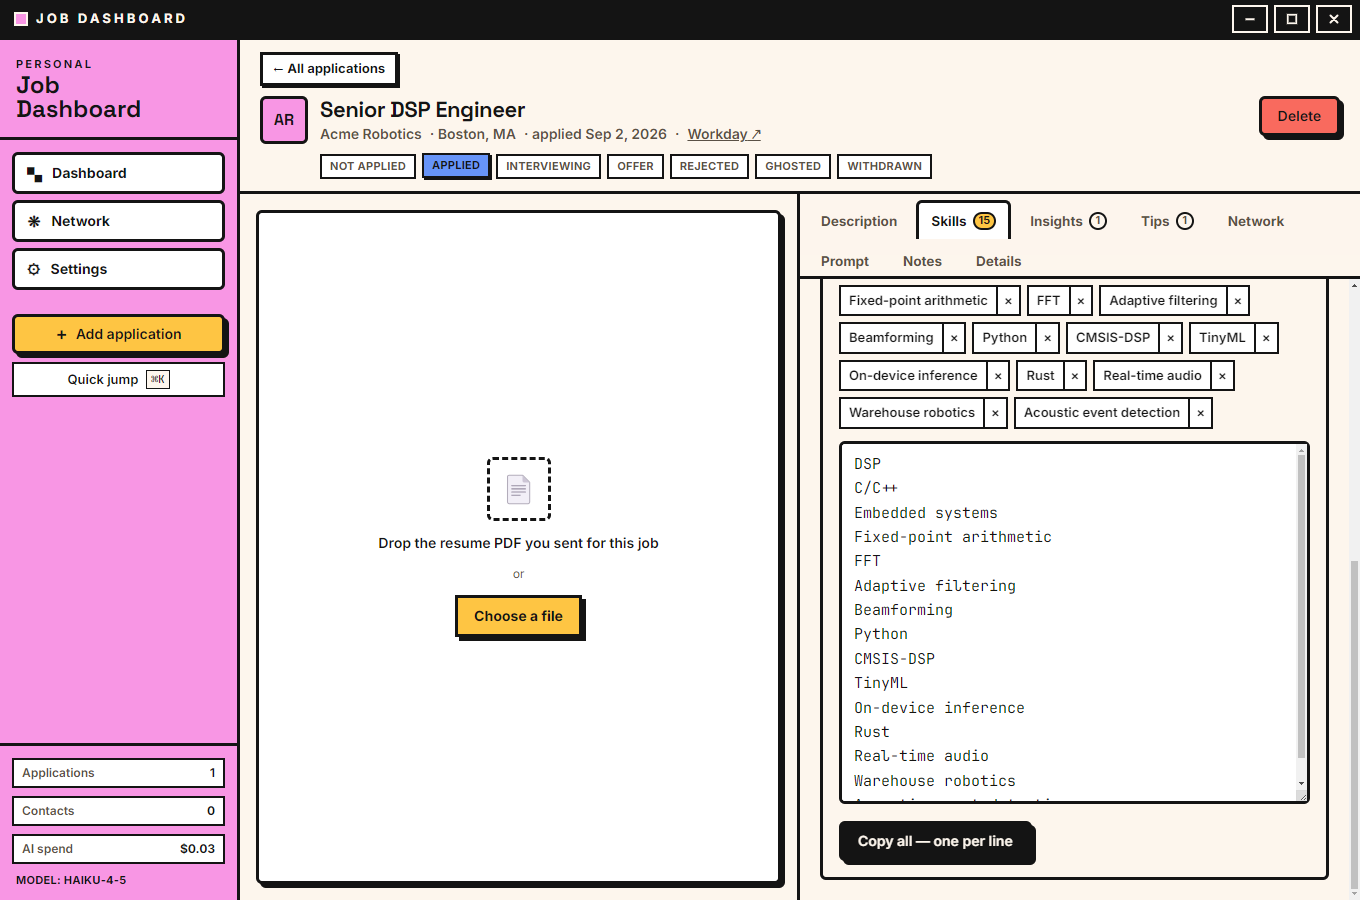
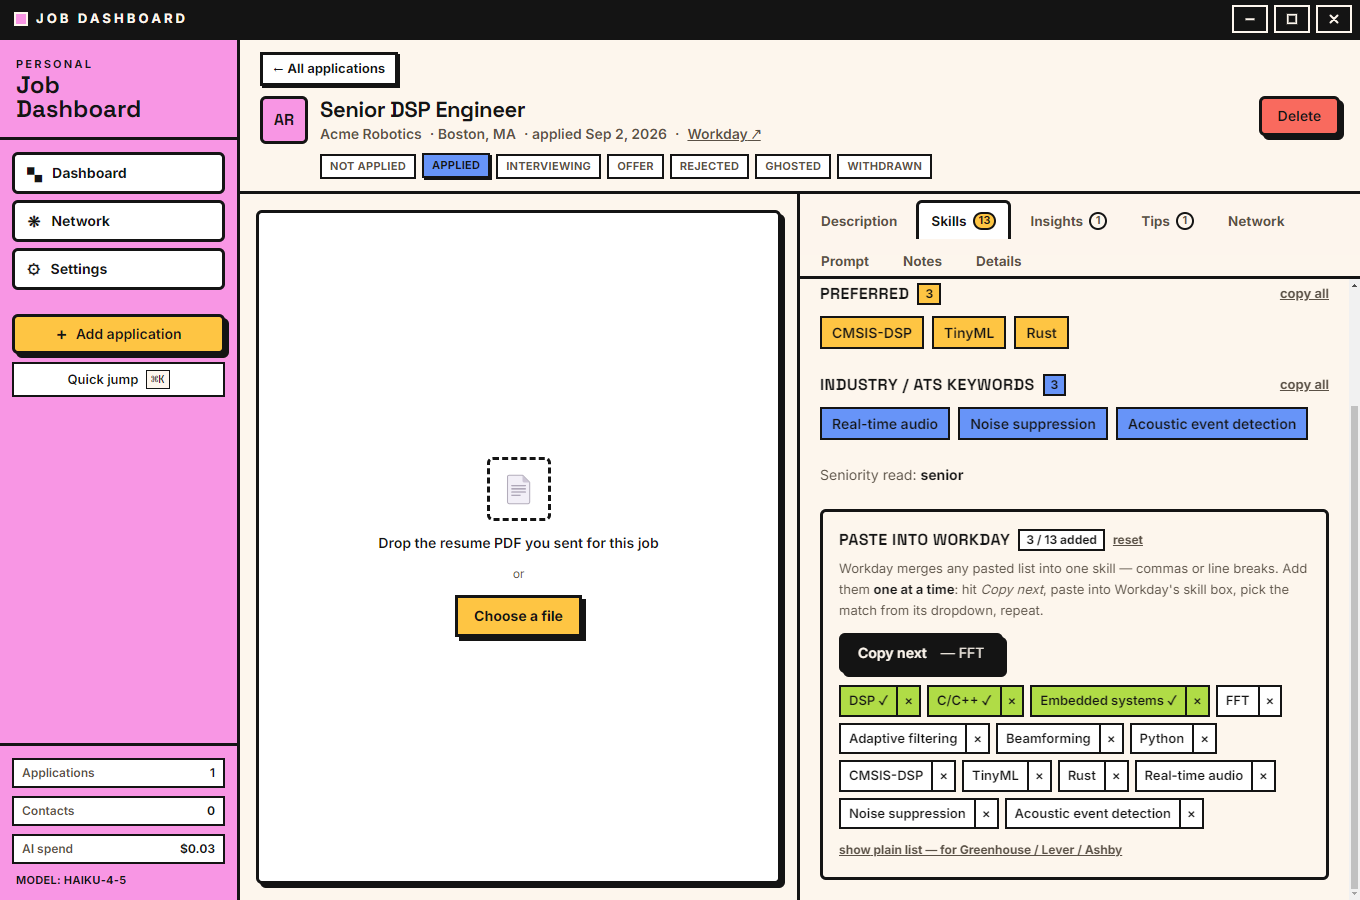
WorkdaySkillsBox: lead with one-at-a-time copy
Workday's skill search merges a pasted list into a single skill whether it's
comma- OR newline-delimited (confirmed from a real paste), so the newline block
is useless there. Rework the box around the only flow that works:
- 'Copy next' copies the next skill and advances; N/total progress counter
- per-chip click still copies that one; done chips go lime with a check
- the newline list is now a collapsed fallback labelled for Greenhouse/Lever/Ashby
Update README + screenshot to match.

Changed region(s): [[0.5868, 0.3111, 1.0, 0.9644], [0.8956, 0.2178, 0.9265, 0.2489], [0.7721, 0.2178, 0.8029, 0.2489]]

diff --git a/src/renderer/src/components/WorkdaySkillsBox.tsx b/src/renderer/src/components/WorkdaySkillsBox.tsx
@@ -22,30 +22,26 @@ function masterList(skills: ApplicationSkills): string[] {
 }
 
 /**
- * "Paste into Workday" — Workday's skill field is a taxonomy typeahead whose
- * search box takes a pasted comma list as ONE skill. This turns the extracted
- * skills into a newline-delimited block (which the tenants that choke on commas
- * do split), plus a click-to-copy-one mode with progress tracking for tenants
- * where every skill must be picked from the dropdown by hand.
+ * "Paste into Workday" — Workday's skill field is a taxonomy typeahead. Its
+ * search box merges ANY pasted text (commas *or* newlines) into a single skill,
+ * so there is no bulk paste. The only thing that works is one skill at a time:
+ * copy → paste → pick the dropdown match → repeat. This drives that loop with a
+ * "Copy next" button + progress, and keeps a plain newline list as a fallback
+ * for other ATSs (Greenhouse/Lever/Ashby) whose fields *do* split on newlines.
  */
 export function WorkdaySkillsBox({ skills }: { skills: ApplicationSkills }) {
   const master = useMemo(() => masterList(skills), [skills])
   const [removed, setRemoved] = useState<Set<string>>(new Set())
   const [done, setDone] = useState<Set<string>>(new Set())
+  const [justCopied, setJustCopied] = useState<string | null>(null)
+  const [showList, setShowList] = useState(false)
   const [text, setText] = useState('')
-  const { copied, copy } = useCopy()
-  const [flash, setFlash] = useState<string | null>(null)
+  const list = useCopy()
 
-  const included = useMemo(
-    () => master.filter((s) => !removed.has(key(s))),
-    [master, removed],
-  )
-  const removedList = useMemo(
-    () => master.filter((s) => removed.has(key(s))),
-    [master, removed],
-  )
+  const included = useMemo(() => master.filter((s) => !removed.has(key(s))), [master, removed])
+  const removedList = useMemo(() => master.filter((s) => removed.has(key(s))), [master, removed])
+  const next = included.find((s) => !done.has(key(s))) ?? null
 
-  // re-seed the editable box whenever the chip set changes
   const seed = included.join('\n')
   useEffect(() => setText(seed), [seed])
 
@@ -53,23 +49,22 @@ export function WorkdaySkillsBox({ skills }: { skills: ApplicationSkills }) {
 
   function toggleRemoved(s: string) {
     setRemoved((prev) => {
-      const next = new Set(prev)
-      if (next.has(key(s))) next.delete(key(s))
-      else next.add(key(s))
-      return next
+      const n = new Set(prev)
+      if (n.has(key(s))) n.delete(key(s))
+      else n.add(key(s))
+      return n
     })
   }
 
-  async function copyOne(s: string) {
+  async function markCopied(s: string) {
     await navigator.clipboard.writeText(s).catch(() => {})
     setDone((prev) => new Set(prev).add(key(s)))
-    setFlash(key(s))
-    setTimeout(() => setFlash((f) => (f === key(s) ? null : f)), 1000)
+    setJustCopied(s)
+    setTimeout(() => setJustCopied((j) => (j === s ? null : j)), 1400)
   }
 
-  const count = included.length
-  const hint =
-    count < 8 ? 'Workday works best with 8–15' : count > 15 ? `${count} is a lot — Workday suggests 8–15` : null
+  const total = included.length
+  const doneCount = included.filter((s) => done.has(key(s))).length
 
   return (
     <div className="border-3 border-ink bg-ground rounded p-4">
@@ -78,55 +73,69 @@ export function WorkdaySkillsBox({ skills }: { skills: ApplicationSkills }) {
           Paste into Workday
         </h4>
         <span className="border-2 border-ink bg-surface px-1.5 text-[12px] font-bold">
-          {count} skill{count === 1 ? '' : 's'}
+          {doneCount} / {total} added
         </span>
-        {hint && <span className="text-[12px] font-semibold text-muted">{hint}</span>}
-        {done.size > 0 && (
-          <span className="ml-auto text-[12px] font-bold text-muted">
-            {done.size} / {count} copied ·{' '}
-            <button onClick={() => setDone(new Set())} className="underline hover:text-ink">
-              reset
-            </button>
-          </span>
+        {doneCount > 0 && (
+          <button
+            onClick={() => setDone(new Set())}
+            className="text-[12px] font-bold text-muted underline hover:text-ink"
+          >
+            reset
+          </button>
         )}
       </div>
 
       <p className="mb-3 text-[13px] leading-relaxed text-muted">
-        Workday's skill box doesn't split on commas. Paste this block, or click a skill to copy
-        it on its own and pick it from Workday's dropdown.
+        Workday merges any pasted list into one skill — commas or line breaks. Add them{' '}
+        <strong className="text-ink">one at a time</strong>: hit <em>Copy next</em>, paste into
+        Workday's skill box, pick the match from its dropdown, repeat.
       </p>
 
-      <div className="mb-3 flex flex-wrap gap-1.5">
-        {included.map((s) => (
-          <span
-            key={s}
-            className={cn(
-              'group inline-flex items-center border-2 border-ink text-[13px] font-semibold',
-              done.has(key(s)) ? 'bg-accent-lime' : 'bg-surface',
-            )}
-          >
-            <button
-              type="button"
-              onClick={() => copyOne(s)}
-              title="Copy just this skill"
-              className="nb-focus px-2 py-1"
+      {next ? (
+        <Button variant="primary" onClick={() => markCopied(next)}>
+          {justCopied ? `✓ copied "${justCopied}"` : 'Copy next'}
+          {!justCopied && <span className="ml-1.5 font-normal opacity-90">— {next}</span>}
+        </Button>
+      ) : (
+        <div className="border-2 border-ink bg-accent-lime px-3 py-1.5 text-[13px] font-bold">
+          All {total} skills copied ✓
+        </div>
+      )}
+
+      <div className="mt-3 flex flex-wrap gap-1.5">
+        {included.map((s) => {
+          const isDone = done.has(key(s))
+          return (
+            <span
+              key={s}
+              className={cn(
+                'inline-flex items-center border-2 border-ink text-[13px] font-semibold',
+                isDone ? 'bg-accent-lime text-ink/60' : 'bg-surface',
+              )}
             >
-              {flash === key(s) ? 'copied ✓' : done.has(key(s)) ? `${s} ✓` : s}
-            </button>
-            <button
-              type="button"
-              onClick={() => toggleRemoved(s)}
-              aria-label={`Remove ${s}`}
-              className="nb-focus border-l-2 border-ink px-1.5 py-1 text-ink/60 hover:bg-accent-coral hover:text-ink"
-            >
-              ×
-            </button>
-          </span>
-        ))}
+              <button
+                type="button"
+                onClick={() => markCopied(s)}
+                title="Copy this skill"
+                className="nb-focus px-2 py-1"
+              >
+                {isDone ? `${s} ✓` : s}
+              </button>
+              <button
+                type="button"
+                onClick={() => toggleRemoved(s)}
+                aria-label={`Remove ${s}`}
+                className="nb-focus border-l-2 border-ink px-1.5 py-1 text-ink/60 hover:bg-accent-coral hover:text-ink"
+              >
+                ×
+              </button>
+            </span>
+          )
+        })}
       </div>
 
       {removedList.length > 0 && (
-        <div className="mb-3 flex flex-wrap items-center gap-1.5">
+        <div className="mt-2.5 flex flex-wrap items-center gap-1.5">
           <span className="text-[12px] font-bold uppercase tracking-wide text-muted">off:</span>
           {removedList.map((s) => (
             <button
@@ -141,20 +150,30 @@ export function WorkdaySkillsBox({ skills }: { skills: ApplicationSkills }) {
         </div>
       )}
 
-      <Textarea
-        value={text}
-        onChange={(e) => setText(e.target.value)}
-        rows={Math.min(Math.max(included.length, 3) + 1, 14)}
-        spellCheck={false}
-        className="font-mono text-[13px]"
-        aria-label="Skills, one per line"
-      />
-
-      <div className="mt-2.5">
-        <Button variant="primary" onClick={() => copy(text)}>
-          {copied ? 'Copied ✓' : 'Copy all — one per line'}
-        </Button>
-      </div>
+      <button
+        onClick={() => setShowList((v) => !v)}
+        className="mt-3 text-[12px] font-bold text-muted underline hover:text-ink"
+      >
+        {showList ? 'hide' : 'show'} plain list — for Greenhouse / Lever / Ashby
+      </button>
+      {showList && (
+        <div className="mt-2">
+          <Textarea
+            value={text}
+            onChange={(e) => setText(e.target.value)}
+            rows={Math.min(Math.max(included.length, 3) + 1, 14)}
+            spellCheck={false}
+            className="font-mono text-[13px]"
+            aria-label="Skills, one per line"
+          />
+          <Button className="mt-2" onClick={() => list.copy(text)}>
+            {list.copied ? 'Copied ✓' : 'Copy list (one per line)'}
+          </Button>
+          <p className="mt-1 text-[12px] text-muted">
+            Those ATS skill boxes split on line breaks. Workday does not.
+          </p>
+        </div>
+      )}
     </div>
   )
 }

diff --git a/README.md b/README.md
@@ -158,16 +158,17 @@ anything.
 
 ![Paste into Workday](docs/workday-skills.png)
 
-Workday's "Skills" input is a typeahead against Workday's own skill taxonomy — its search box
-takes a pasted `Python, AWS, CI/CD` as **one** skill, so a comma list is useless. The bottom of
-the **Skills** tab has a **Paste into Workday** box that fixes this, with **no AI**:
+Workday's "Skills" input is a typeahead against Workday's own taxonomy, and its search box
+**merges any paste — commas *or* line breaks — into a single skill**. There is no bulk paste;
+the only thing that works is one skill at a time. The bottom of the **Skills** tab has a
+**Paste into Workday** box that drives that loop, with **no AI**:
 
-- every extracted skill (required + preferred + industry, de-duplicated) as a one-per-line
-  block with a **Copy all** button — the format the ATSs that choke on commas do split;
-- **click any single skill** to copy just that one and mark it done, with a `3 / 15` progress
-  counter — for the Workday tenants where you must pick each skill from the dropdown by hand;
-- **toggle chips off** to trim the list (Workday recommends 8–15), and edit the text box
-  directly before copying.
+- **Copy next** copies the next skill and advances — paste it into Workday, pick the match from
+  the dropdown, hit *Copy next* again. A `4 / 13 added` counter tracks progress.
+- Or click any individual chip to copy that one skill out of order.
+- **Toggle chips off** to trim the list (Workday recommends 8–15).
+- A collapsed **plain list** (one per line) is there for Greenhouse / Lever / Ashby, whose
+  skill fields *do* split on line breaks.
 
 ---
 
@@ -212,7 +213,7 @@ person's time, with a genuine way for them to say no.
 | Sort | **Find** panel — newest/oldest applied, recently posted, company A–Z |
 | Track status | Per job: **Not applied → Applied → Interviewing → Offer / Rejected / Ghosted / Withdrawn**. New jobs start **Not applied**; flip to **Applied** when you submit and it stamps the date. |
 | Tag jobs | Free-text tags with colours (e.g. `dream`, `referral`) |
-| Fill Workday's skills field | Job → **Skills** tab → **Paste into Workday** — one-per-line block, or click each skill to copy it singly |
+| Fill Workday's skills field | Job → **Skills** tab → **Paste into Workday** — *Copy next* → paste → pick the match → repeat |
 | Add a contact | **Network → Add contact**, or `Ctrl`+`K` |
 | See who can refer you | A job's **Network** tab — contacts at that company appear automatically; link others by hand |
 | Draft a referral email | **Draft email** on any contact → edit → **Copy** or **Open in mail app** |
